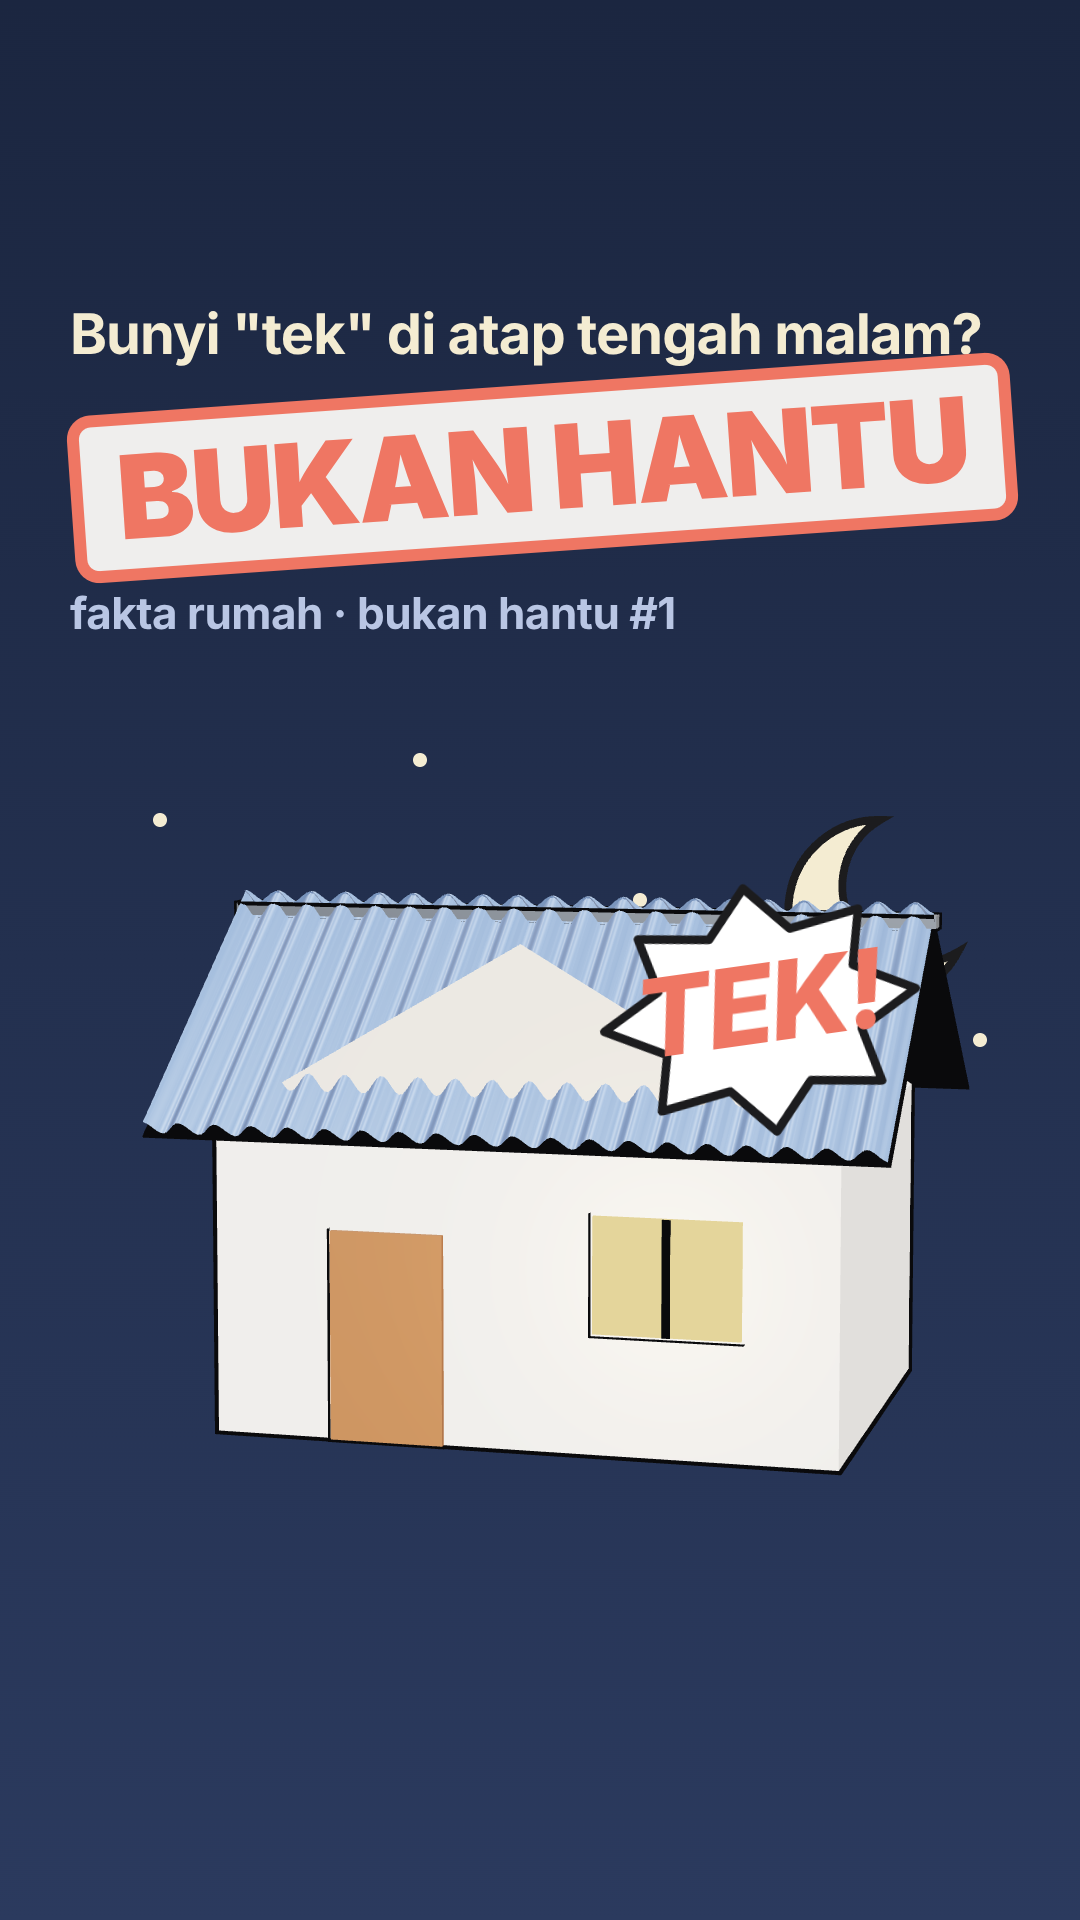
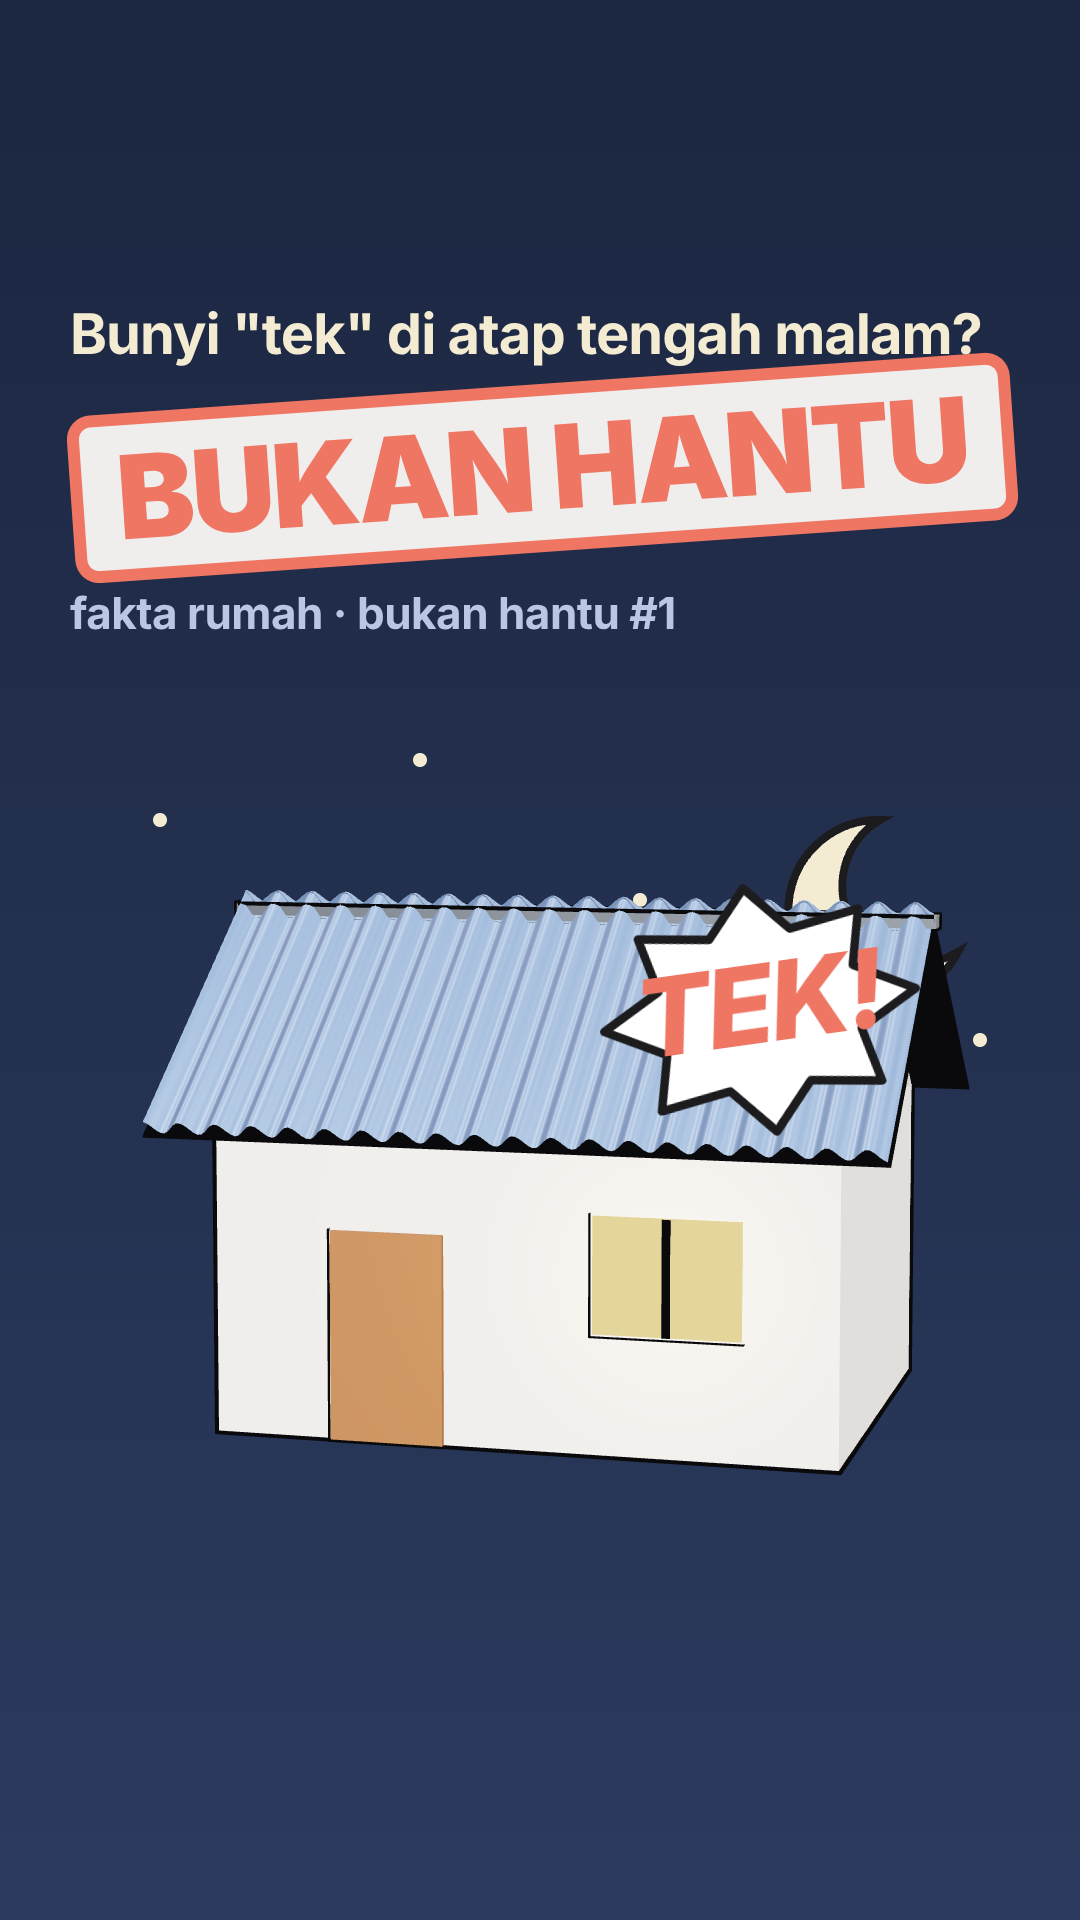
Video #8: perbaiki dinding pelana yang menembus atap (pindah ke sisi rumah)
Claude-Session: https://claude.ai/code/session_0198S32DzobPANqaCuug8cpT

Changed region(s): [[0.275, 0.4688, 0.6111, 0.5938]]

diff --git a/remotion/src/v08/Rumah.tsx b/remotion/src/v08/Rumah.tsx
@@ -7,7 +7,7 @@ import {M as M7, Box, Profile, Screw} from '../v07/Atap';
 export const K8 = {wall: '#efe6d6', wallDark: '#d8cbb4', door: '#8a5528', glass: '#ffd77a', glassOff: '#5b6b85', seng: '#b9c0c8', hot: '#ef7663', cold: '#5d8fd6', ink: '#1c1c1e'};
 const phys = (color: string, o: Partial<THREE.MeshPhysicalMaterialParameters> = {}) =>
   new THREE.MeshPhysicalMaterial({color, roughness: 0.4, clearcoat: 0.6, clearcoatRoughness: 0.25, ...o});
-export const M8 = {wall: phys(K8.wall, {roughness: 0.85, clearcoat: 0}), wallDark: phys(K8.wallDark, {roughness: 0.85, clearcoat: 0}), door: phys(K8.door, {roughness: 0.7, clearcoat: 0.1})};
+export const M8 = {wall: phys(K8.wall, {roughness: 0.85, clearcoat: 0}), wallDark: phys(K8.wallDark, {roughness: 0.85, clearcoat: 0, side: THREE.DoubleSide}), door: phys(K8.door, {roughness: 0.7, clearcoat: 0.1})};
 
 const lerpC = (a: string, b: string, k: number) => new THREE.Color(a).lerp(new THREE.Color(b), Math.max(0, Math.min(1, k)));
 /** warna seng: heat 0 = netral, >0 menuju koral (panas), <0 menuju biru (dingin) */
@@ -59,9 +59,10 @@ export const House: React.FC<{heat?: number; night?: number; glow?: number}> = (
     <group>
       <Box p={[0, H / 2, 0]} s={[W, H, D]} m={M8.wall} ink={0.03} />
       {/* segitiga pelana depan & belakang */}
-      {[D / 2, -D / 2].map((z, i) => (
-        <mesh key={i} position={[0, H, z * 0.999]} material={M8.wallDark}>
-          <shapeGeometry args={[(() => { const s = new THREE.Shape(); s.moveTo(-W / 2, 0); s.lineTo(W / 2, 0); s.lineTo(0, rise * 0.92); s.closePath(); return s; })()]} />
+      {/* segitiga pelana di ujung kiri & kanan (di bawah atap) */}
+      {[W / 2, -W / 2].map((x, i) => (
+        <mesh key={i} position={[x * 0.999, H, 0]} rotation={[0, Math.PI / 2, 0]} material={M8.wallDark}>
+          <shapeGeometry args={[(() => { const s = new THREE.Shape(); s.moveTo(-D / 2, 0); s.lineTo(D / 2, 0); s.lineTo(0, rise * 0.9); s.closePath(); return s; })()]} />
         </mesh>
       ))}
       <Box p={[-0.65, 0.5, D / 2 + 0.01]} s={[0.55, 1.0, 0.04]} m={M8.door} ink={0.02} />
